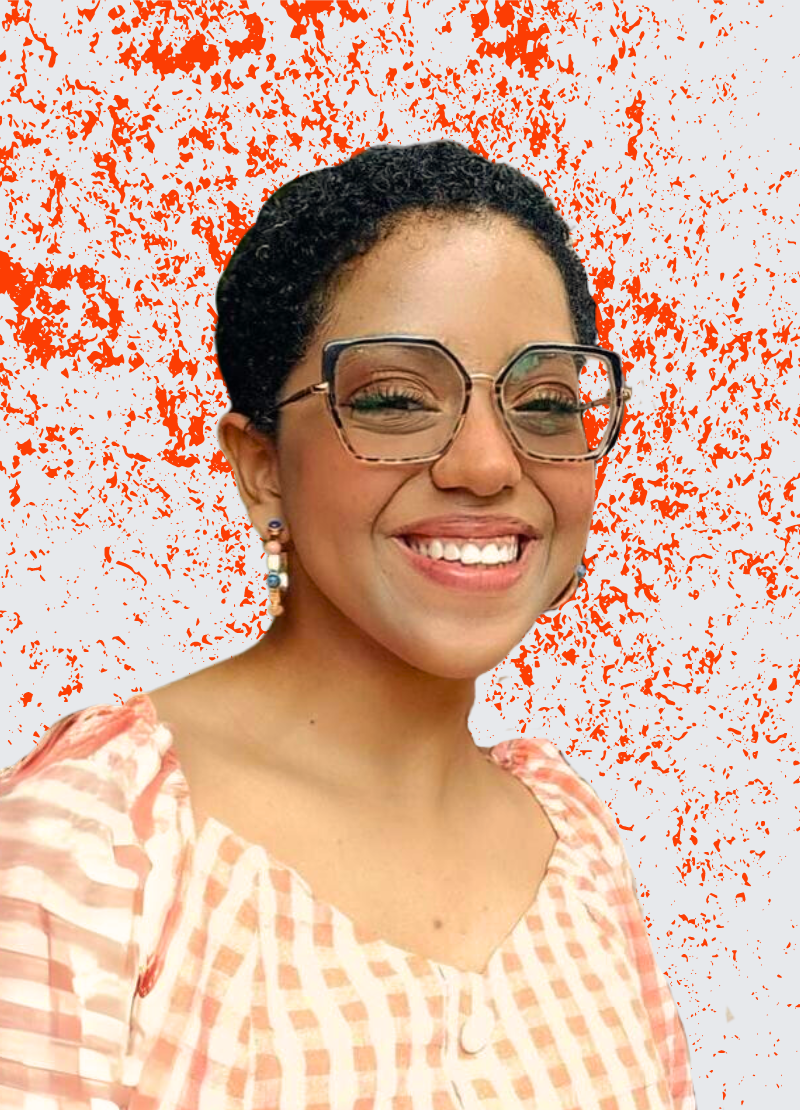
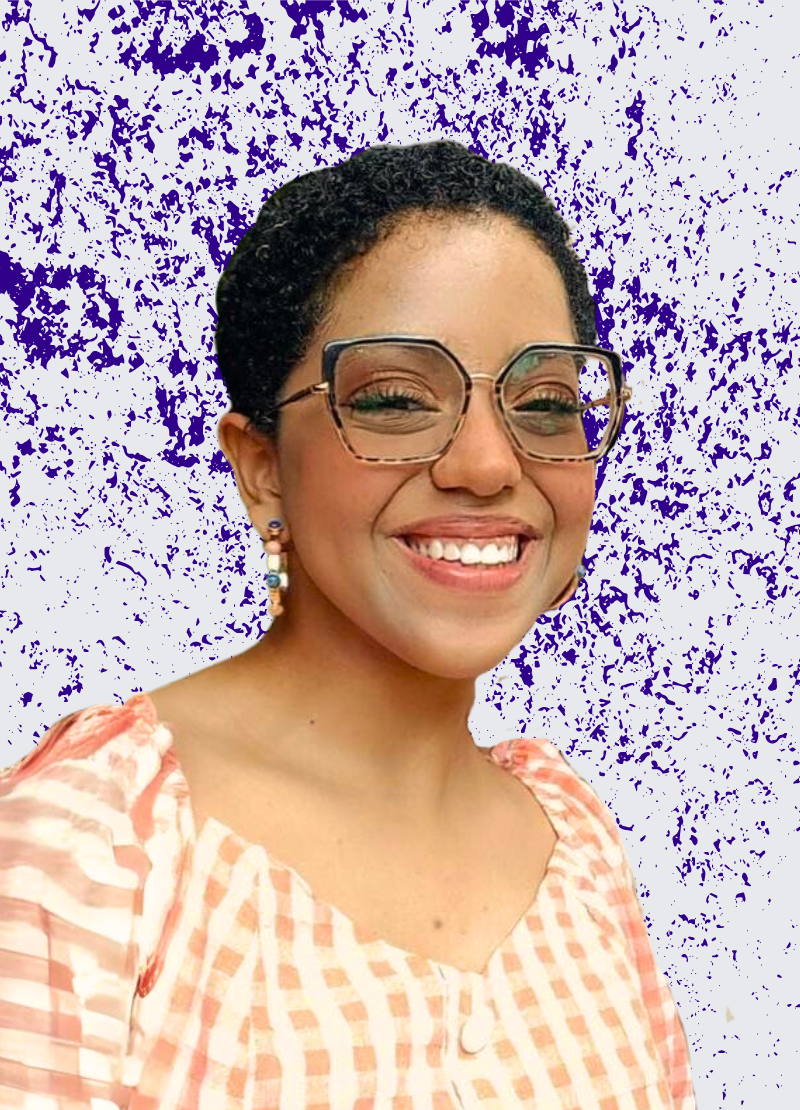
Update CSS

diff --git a/assets/css/styles.css b/assets/css/styles.css
@@ -7,7 +7,7 @@
 
   /*========== Colors ==========*/
   /*Color mode HSL(hue, saturation, lightness)*/
-  --first-color: hsl(14, 98%, 50%);
+  --first-color: hsl(261, 100%, 27%);
   --black-color: hsl(0, 0%, 0%);
   --black-color-light: hsl(0, 0%, 40%);
   --white-color: hsl(0, 0%, 95%);
@@ -108,7 +108,7 @@ img {
 }
 /*========== Variables Dark theme ==========*/
 body.dark-theme {
-  --first-color: hsl(14, 80%, 50%);
+  --first-color: hsl(261, 100%, 27%);
   --black-color: hsl(0, 0%, 18%);
   --black-color-light: hsl(0, 0%, 30%);
   --title-color: hsl(0, 0%, 95%);
@@ -127,7 +127,7 @@ body.dark-theme {
 
 .dark-theme .section__title-1::after,
 .dark-theme .section__title-2::after {
-  background-color: hsla(14, 70%, 50%, 0.2);
+  background-color: hsla(261, 70%, 50%, 0.2);
 }
 
 .dark-theme :is(.home__arrow, .home__line, .about__line) {
@@ -137,7 +137,7 @@ body.dark-theme {
 .dark-theme .home__description b {
   background: linear-gradient(
     90deg,
-    hsla(14, 80%, 50%, 0.3),
+    hsla(261, 80%, 50%, 0.3),
     hsla(14, 80%, 50%, 0)
   );
 }
@@ -204,7 +204,7 @@ body.dark-theme {
   content: '';
   width: 40px;
   height: 28px;
-  background-color: hsla(14, 98%, 50%, 0.2);
+  background-color: hsla(261, 98%, 50%, 0.2);
   position: absolute;
   top: -4px;
   right: -8px;
@@ -268,7 +268,7 @@ body.dark-theme {
 .nav__toggle {
   width: 32px;
   height: 32px;
-  background-color: var(--black-color);
+  background-color: var(--first-color);
   color: var(--white-color);
   display: grid;
   place-items: center;
@@ -492,7 +492,7 @@ body.dark-theme {
 .home__description b {
   background: linear-gradient(
     90deg,
-    hsla(14, 98%, 50%, 0.3),
+    hsla(261, 98%, 50%, 0.3),
     hsla(14, 98%, 50%, 0)
   );
 }
@@ -969,6 +969,11 @@ body.dark-theme {
   cursor: pointer;
 }
 
+.contact__button:hover {
+  background-color: var(--text-color-light);
+  color: var(--first-color);
+}
+
 /* Opaque placeholder */
 .contact__input:focus::placeholder {
   opacity: 0;
@@ -1254,7 +1259,8 @@ body.dark-theme {
     padding: 1.1rem 1.5rem;
   }
   .nav__link-button:hover {
-    color: var(--white-color);
+    background-color: var(--first-color);
+    color: var(--white-color) !important;
   }
   .nav__link-button::after {
     background-color: transparent;

diff --git a/index.html b/index.html
@@ -28,7 +28,7 @@
     <header class="header" id="header">
       <nav class="nav container">
         <a href="#" class="nav__logo">
-          <span class="nav__logo-circle">L</span>
+          <span class="nav__logo-circle">LS</span>
           <span class="nav__logo-name">Larissa Souza</span>
         </a>
 
